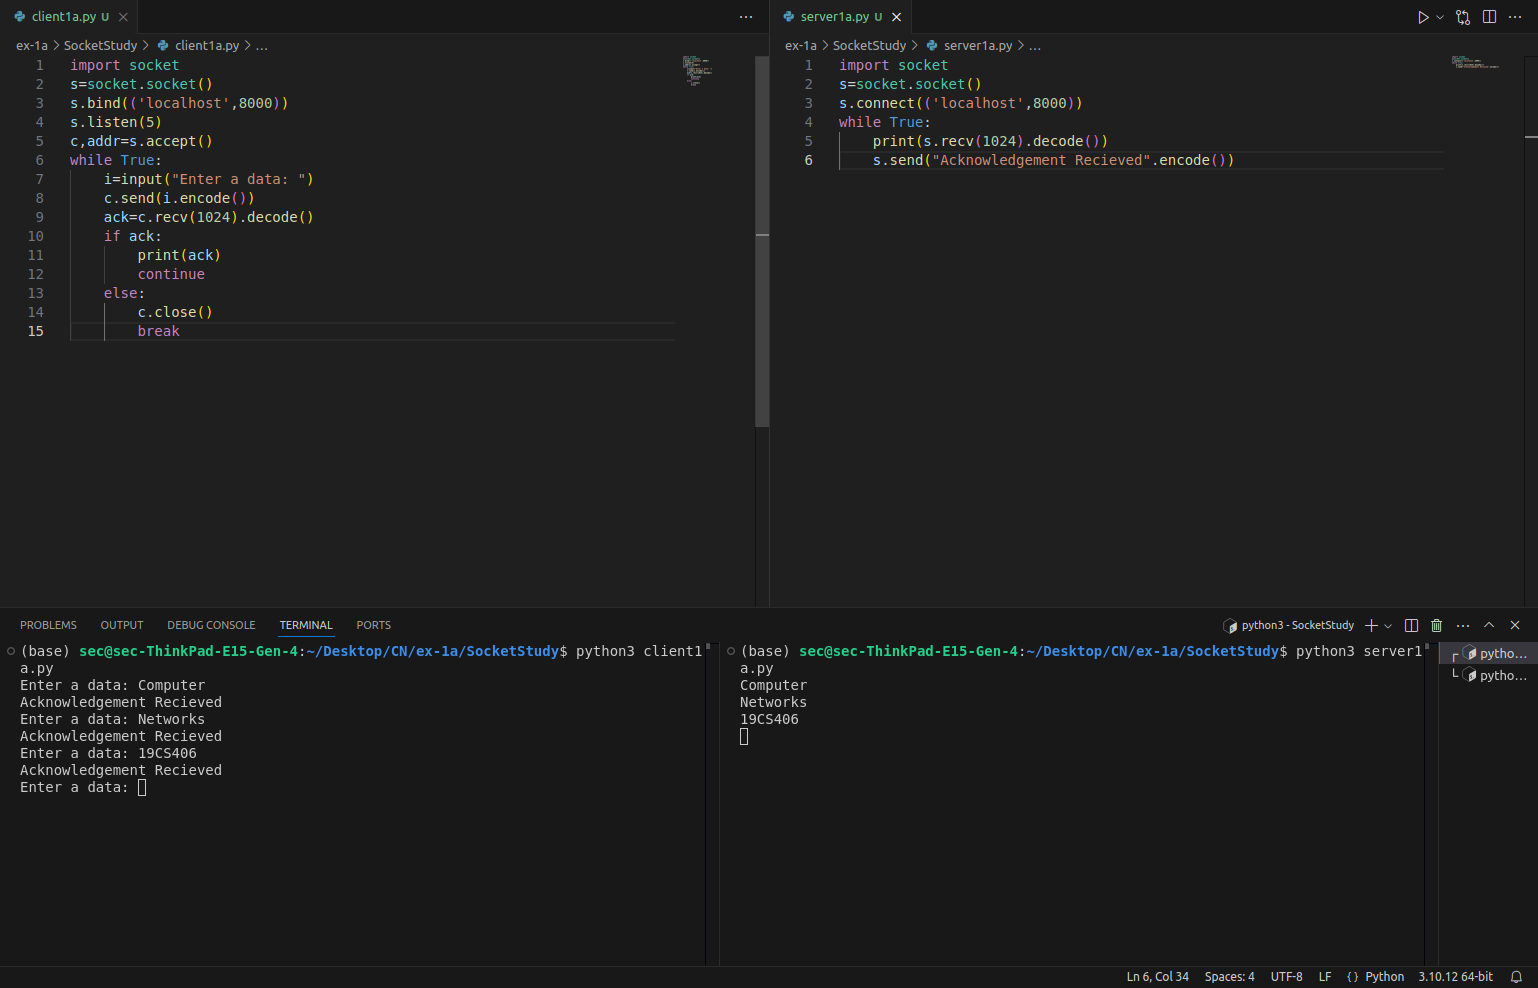
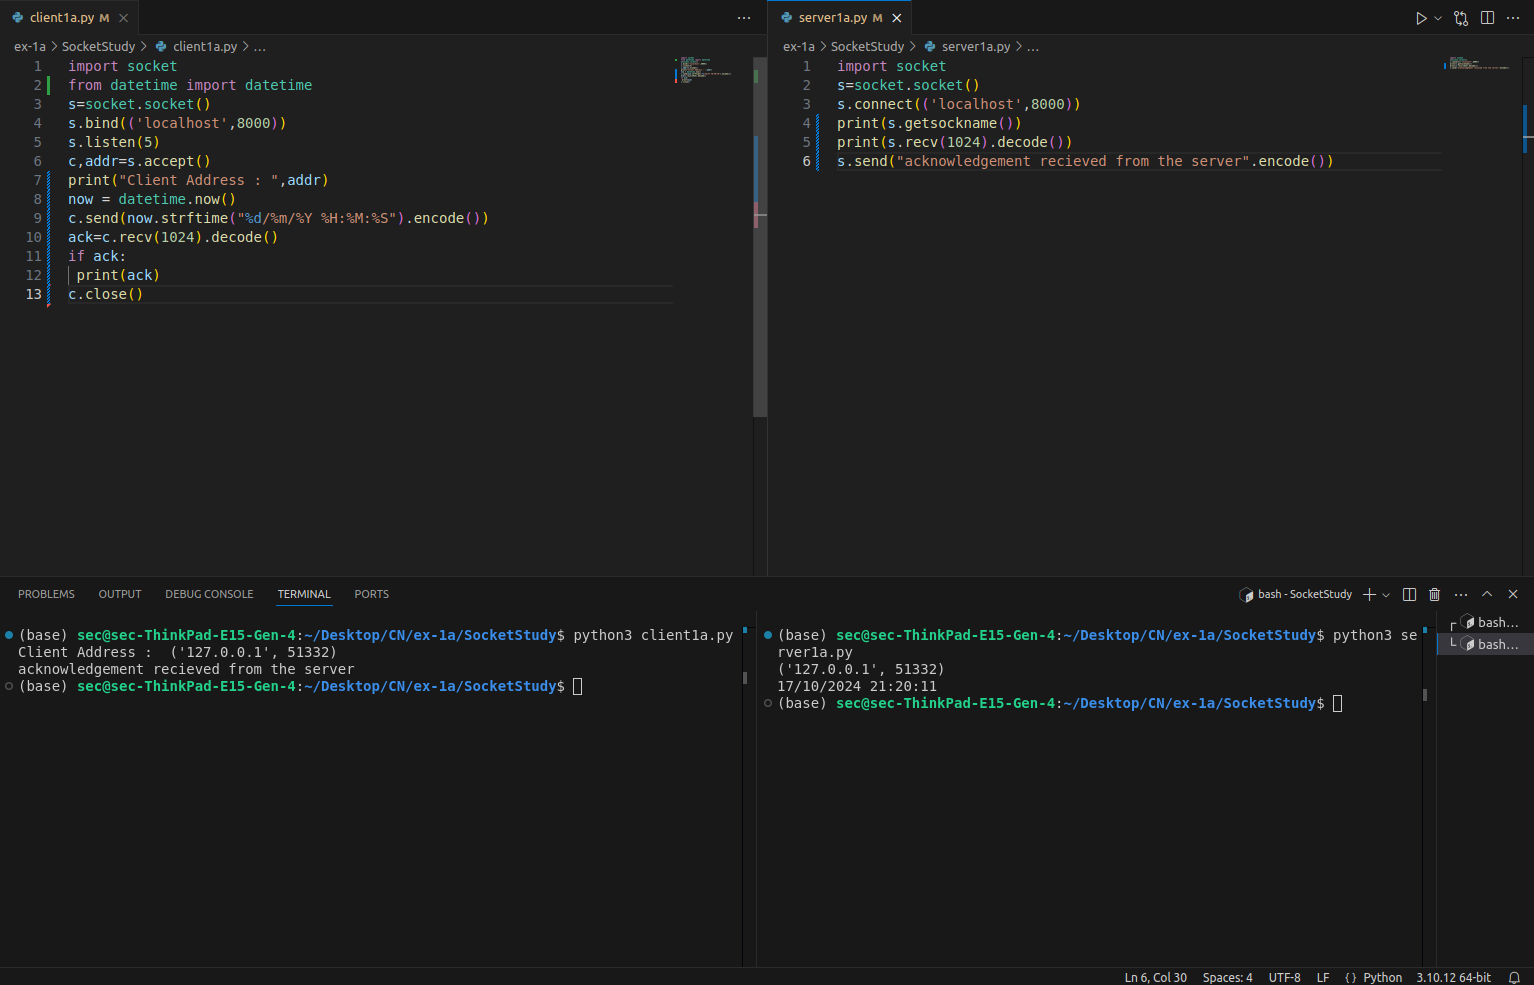
Submitted2

diff --git a/client1a.py b/client1a.py
@@ -1,15 +1,13 @@
 import socket
+from datetime import datetime
 s=socket.socket()
 s.bind(('localhost',8000))
 s.listen(5)
 c,addr=s.accept()
-while True:
-    i=input("Enter a data: ")
-    c.send(i.encode())
-    ack=c.recv(1024).decode()
-    if ack:
-        print(ack)
-        continue
-    else:
-        c.close()
-        break
+print("Client Address : ",addr)
+now = datetime.now()
+c.send(now.strftime("%d/%m/%Y %H:%M:%S").encode())
+ack=c.recv(1024).decode()
+if ack:
+ print(ack)
+c.close()

diff --git a/server1a.py b/server1a.py
@@ -1,6 +1,6 @@
 import socket
 s=socket.socket()
 s.connect(('localhost',8000))
-while True:
-    print(s.recv(1024).decode())
-    s.send("Acknowledgement Recieved".encode())
+print(s.getsockname())
+print(s.recv(1024).decode())
+s.send("acknowledgement recieved from the server".encode())

diff --git a/README.md b/README.md
@@ -61,29 +61,27 @@ Reg No : 212223100035
 ## Client:
 ```
 import socket
+from datetime import datetime
 s=socket.socket()
 s.bind(('localhost',8000))
 s.listen(5)
 c,addr=s.accept()
-while True:
-    i=input("Enter a data: ")
-    c.send(i.encode())
-    ack=c.recv(1024).decode()
-    if ack:
-        print(ack)
-        continue
-    else:
-        c.close()
-        break
+print("Client Address : ",addr)
+now = datetime.now()
+c.send(now.strftime("%d/%m/%Y %H:%M:%S").encode())
+ack=c.recv(1024).decode()
+if ack:
+ print(ack)
+c.close()
 ```
 ## Server:
 ```
 import socket
 s=socket.socket()
 s.connect(('localhost',8000))
-while True:
-    print(s.recv(1024).decode())
-    s.send("Acknowledgement Recived".encode())
+print(s.getsockname())
+print(s.recv(1024).decode())
+s.send("acknowledgement recieved from the server".encode())
 ```
 ## Output:
 
